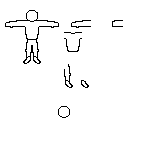
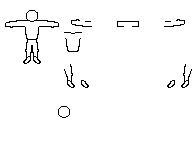
Added images to ragdoll

diff --git a/shooterroyale/physics.py b/shooterroyale/physics.py
@@ -9,13 +9,12 @@ class Entity:
         self._joints = []
         self.wireframe_color = (255, 0, 0)
         self.image = None
-        self.shape_filter = pm.ShapeFilter(group=0)
+        self.shape_filter = pm.ShapeFilter(group=1)
 
     def add_element(self, position, size, mass, rect=None):
         body = pm.Body(mass)
         body.position = position
         body.moment = pm.moment_for_box(mass, size) * 5
-        print(body.moment)
 
         if rect is None:
             img = None
@@ -33,7 +32,6 @@ class Entity:
 
     def add_to_space(self, space):
         for elem in self._elements:
-            print(*elem[:2])
             space.add(*elem[:2])
         space.add(*self._joints)
 
@@ -58,7 +56,6 @@ class Entity:
 
             img = pg.transform.rotate(elem[4], -math.degrees(elem[0].angle))
             offset = pm.Vec2d(img.get_size()) / 2
-            print(offset)
             pos -= offset
             surface.blit(img, (pos[0], pos[1]))
 
@@ -74,6 +71,7 @@ class StaticBody(Entity):
         self.add_element(self.position, self.size, 100.0)
         self._elements[-1][0].body_type = pm.Body.STATIC
 
+        self._elements[-1][1].filter = pm.ShapeFilter(group=2)
 
 class Ragdoll(Entity):
     def __init__(self, position):
@@ -82,4 +80,78 @@ class Ragdoll(Entity):
         self.image = pg.image.load('./resources/player_m_rbody.png')
 
     def load_elements(self):
-        self.add_element(self.position, (22, 20), 60.0, pg.Rect(62, 32, 22, 20))
+        self.add_element(self.position, (22, 20), 60.0, pg.Rect(58, 32, 30, 25))
+        self.add_element(self.position + pm.Vec2d(0, -14), (12, 12), 4.0,
+                         pg.Rect(58, 106, 12, 12))
+
+        self.add_element(self.position + pm.Vec2d(-11, -8), (11, 7), 2.0,
+                         pg.Rect(85, 20, 11, 7))
+        self.add_element(self.position + pm.Vec2d(-19, -8), (14, 8), 2.0,
+                         pg.Rect(71, 19, 14, 8))
+        self.add_element(self.position + pm.Vec2d(-6, 14), (11, 12), 8.0,
+                         pg.Rect(181, 64, 11, 12))
+        self.add_element(self.position + pm.Vec2d(-5, 25), (11, 12), 4.0,
+                         pg.Rect(181, 76, 11, 12))
+
+        self.add_element(self.position + pm.Vec2d(11, -8), (11, 7), 2.0,
+                         pg.Rect(160, 20, 11, 7))
+        self.add_element(self.position + pm.Vec2d(19, -8), (14, 8), 2.0,
+                         pg.Rect(171, 19, 14, 8))
+        self.add_element(self.position + pm.Vec2d(6, 14), (11, 12), 8.0,
+                         pg.Rect(64, 64, 11, 12))
+        self.add_element(self.position + pm.Vec2d(5, 25), (11, 12), 4.0,
+                         pg.Rect(64, 76, 11, 12))
+
+        self.add_joint(pm.PivotJoint(self._elements[0][0], self._elements[1][0],
+                                     self.position + pm.Vec2d(0, -11)))
+        self.add_joint(pm.PivotJoint(self._elements[0][0], self._elements[1][0],
+                                     self._elements[0][0].position +
+                                     pm.Vec2d(0, -15)))
+
+        self.add_joint(pm.PivotJoint(self._elements[0][0], self._elements[2][0],
+                                     self.position + pm.Vec2d(-10, -7)))
+        self.add_joint(pm.RotaryLimitJoint(self._elements[0][0],
+                                           self._elements[2][0],
+                                           math.radians(-90), math.radians(90)))
+
+        self.add_joint(pm.PivotJoint(self._elements[2][0], self._elements[3][0],
+                                     self.position + pm.Vec2d(-16, -11)))
+        self.add_joint(pm.RotaryLimitJoint(self._elements[2][0],
+                                           self._elements[3][0],
+                                           math.radians(0), math.radians(110)))
+
+        self.add_joint(pm.PivotJoint(self._elements[0][0], self._elements[4][0],
+                                     self.position + pm.Vec2d(-5, 10)))
+        self.add_joint(pm.RotaryLimitJoint(self._elements[0][0],
+                                           self._elements[4][0],
+                                           math.radians(0), math.radians(90)))
+
+        self.add_joint(pm.PivotJoint(self._elements[4][0], self._elements[5][0],
+                                     self.position + pm.Vec2d(-4, 18)))
+        self.add_joint(pm.RotaryLimitJoint(self._elements[4][0],
+                                           self._elements[5][0],
+                                           math.radians(-110), math.radians(0)))
+
+        self.add_joint(pm.PivotJoint(self._elements[0][0], self._elements[6][0],
+                                     self.position + pm.Vec2d(10, -7)))
+        self.add_joint(pm.RotaryLimitJoint(self._elements[0][0],
+                                           self._elements[6][0],
+                                           math.radians(-90), math.radians(90)))
+
+        self.add_joint(pm.PivotJoint(self._elements[6][0], self._elements[7][0],
+                                     self.position + pm.Vec2d(16, -8)))
+        self.add_joint(pm.RotaryLimitJoint(self._elements[6][0],
+                                           self._elements[7][0],
+                                           math.radians(-110), math.radians(0)))
+
+        self.add_joint(pm.PivotJoint(self._elements[0][0], self._elements[8][0],
+                                     self.position + pm.Vec2d(5, 10)))
+        self.add_joint(pm.RotaryLimitJoint(self._elements[0][0],
+                                           self._elements[8][0],
+                                           math.radians(-90), math.radians(0)))
+
+        self.add_joint(pm.PivotJoint(self._elements[8][0], self._elements[9][0],
+                                     self.position + pm.Vec2d(4, 18)))
+        self.add_joint(pm.RotaryLimitJoint(self._elements[8][0],
+                                           self._elements[9][0],
+                                           math.radians(0), math.radians(110)))

diff --git a/main.py b/main.py
@@ -17,6 +17,7 @@ def main():
 
     rds = []
     sbs = []
+    phantom_rect = None
 
     done = False
 
@@ -24,13 +25,16 @@ def main():
         for event in pg.event.get():
             mouse = pm.Vec2d(pg.mouse.get_pos())
 
-            if event.type == pg.MOUSEBUTTONDOWN:
+            if event.type == pg.MOUSEMOTION and points[0] is not None:
+                points[1] = mouse
+                phantom_rect = pg.Rect(points[0], points[1] - points[0])
+            elif event.type == pg.MOUSEBUTTONDOWN:
                 if event.button == 1:
                     ragdoll = sr_p.Ragdoll(mouse)
                     ragdoll.load_elements()
                     ragdoll.add_to_space(space)
                     rds.append(ragdoll)
-                elif event.button == 3:
+                elif event.button == 3 and points[0] is None:
                     points[0] = mouse
             elif event.type == pg.MOUSEBUTTONUP:
                 if event.button == 3:
@@ -40,18 +44,8 @@ def main():
                     sb.load_elements()
                     sb.add_to_space(space)
                     sbs.append(sb)
-                    points = [None, None]
-
-            elif event.type == pg.MOUSEMOTION and points[0] is not None:
-                points[1] = mouse
-                rect = pg.Rect(points[0], points[1] - points[0])
-                vertices = ((rect.left, rect.top),
-                            (rect.left + rect.width, rect.top),
-                            (rect.left + rect.width, rect.top + rect.height),
-                            (rect.left, rect.top + rect.height),
-                            (rect.left, rect.top))
-                pg.draw.lines(display, (0, 128, 0), False, vertices)
-
+                phantom_rect = None
+                points = [None, None]
             elif event.type == pg.QUIT:
                 done = True
 
@@ -59,9 +53,18 @@ def main():
 
         for rd in rds:
             rd.draw(display)
-            rd.draw_wireframe(display)
+            #rd.draw_wireframe(display)
         for sb in sbs:
             sb.draw_wireframe(display)
+
+        if phantom_rect is not None:
+            x, y, w, h = (phantom_rect.left, phantom_rect.top,
+                          phantom_rect.width, phantom_rect.height)
+            vertices = (pm.Vec2d(x, y),
+                        pm.Vec2d(x + w, y),
+                        pm.Vec2d(x + w, y + h),
+                        pm.Vec2d(x, y + h))
+            pg.draw.lines(display, (0, 255, 0), True, vertices)
 
         pg.display.update()
         clock.tick(60)
